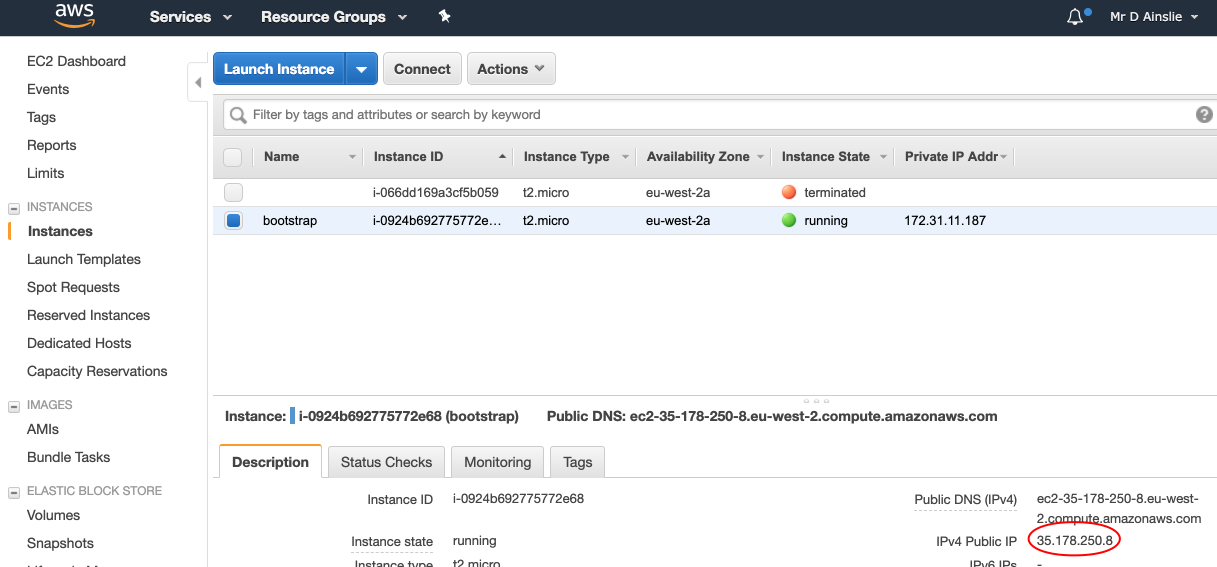
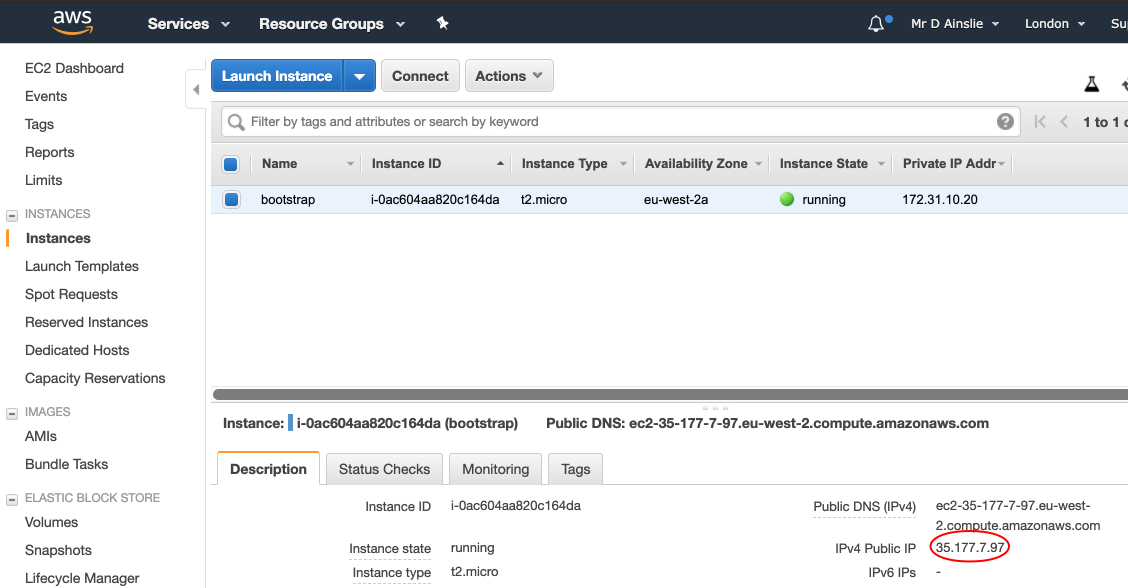
AWS IAM

diff --git a/kubernetes-microservices/docs/aws/kops.md b/kubernetes-microservices/docs/aws/kops.md
@@ -39,13 +39,120 @@ $ chmod go-rwx video-keypair.pem
 ```
 
 ```bash
-$ ssh -i video-keypair.pem ec2-user@35.178.250.8
+$ ssh -i video-keypair.pem ec2-user@35.177.7.97
+The authenticity of host '35.177.7.97 (35.177.7.97)' can't be established.
+ECDSA key fingerprint is SHA256:rz24AbSgSq0zcSOgv1TVk+e+kI7eS82YWnSWTpa2dcw.
+Are you sure you want to continue connecting (yes/no)? yes
+Warning: Permanently added '35.177.7.97' (ECDSA) to the list of known hosts.
 
        __|  __|_  )
        _|  (     /   Amazon Linux 2 AMI
       ___|\___|___|
 
 https://aws.amazon.com/amazon-linux-2/
-[ec2-user@ip-172-31-11-187 ~]$
+[ec2-user@ip-172-31-10-20 ~]$ curl -Lo kops https://github.com/kubernetes/kops/releases/download/$(curl -s https://api.github.com/repos/kubernetes/kops/releases/latest | grep tag_name | cut -d '"' -f 4)/kops-linux-amd64
+chmod +x ./kops
+sudo mv ./kops /usr/local/bin/
+
+[ec2-user@ip-172-31-10-20 ~]$ curl -Lo kubectl https://storage.googleapis.com/kubernetes-release/release/$(curl -s https://storage.googleapis.com/kubernetes-release/release/stable.txt)/bin/linux/amd64/kubectl
+chmod +x ./kubectl
+sudo mv ./kubectl /usr/local/bin/kubectl
+```
+
+## Kops IAM User
+
+We can run:
+
+```bash
+[ec2-user@ip-172-31-10-20 ~]$ aws iam create-group --group-name kops
+
+aws iam attach-group-policy --policy-arn arn:aws:iam::aws:policy/AmazonEC2FullAccess --group-name kops
+aws iam attach-group-policy --policy-arn arn:aws:iam::aws:policy/AmazonRoute53FullAccess --group-name kops
+aws iam attach-group-policy --policy-arn arn:aws:iam::aws:policy/AmazonS3FullAccess --group-name kops
+aws iam attach-group-policy --policy-arn arn:aws:iam::aws:policy/IAMFullAccess --group-name kops
+aws iam attach-group-policy --policy-arn arn:aws:iam::aws:policy/AmazonVPCFullAccess --group-name kops
+
+aws iam create-user --user-name kops
+
+aws iam add-user-to-group --user-name kops --group-name kops
+
+aws iam create-access-key --user-name kops
+```
+
+Or go through the UI:
+
+![Start IAM](../images/start-iam.png)
+
+Create a **new group**:
+
+![Start create group](../images/start-create-group.png)
+
+---
+
+![Kops group creation](../images/kops-group-creation.png)
+
+---
+
+![Amazon EC2 full access](../images/amazon-ec2-full-access.png)
+
+---
+
+![Amazon Route53 full access](../images/amazon-route53-full-access.png)
+
+---
+
+![Amazon S3 full access](../images/amazon-s3-full-access.png)
+
+---
+
+![IAM full access](../images/iam-full-access.png)
+
+![Amazon VPC full access](../images/amazon-vpc-full-access.png)
+
+The **next step** gives us a review:
+
+![IAM review](../images/iam-review.png)
+
+Now **add user**:
+
+![Add user](../images/add-user.png)
+
+---
+
+![User access type](../images/user-access-type.png)
+
+---
+
+![Add user to group](../images/add-user-to-group.png)
+
+## AWS Configure
+
+```bash
+[ec2-user@ip-172-31-10-20 ~]$ aws configure
+AWS Access Key ID [None]: AKIAIE6KXD4WFKA33UTQ
+AWS Secret Access Key [None]: <your secret>
+Default region name [None]: eu-west-2
+Default output format [None]:
+[ec2-user@ip-172-31-10-20 ~]$
+```
+
+```bash
+[ec2-user@ip-172-31-10-20 ~]$ aws iam list-users
+{
+    "Users": [
+        {
+            "UserName": "kops",
+            "Path": "/",
+            "CreateDate": "2019-03-25T22:17:24Z",
+            "UserId": "AIDAJW7RH5XKHE6VMCY2E",
+            "Arn": "arn:aws:iam::890953945913:user/kops"
+        }
+    ]
+}
+```
+
+```bash
+[ec2-user@ip-172-31-10-20 ~]$ export AWS_ACCESS_KEY_ID=$(aws configure get aws_access_key_id)
+[ec2-user@ip-172-31-10-20 ~]$ export AWS_SECRET_ACCESS_KEY=$(aws configure get aws_secret_access_key)
 ```
 
